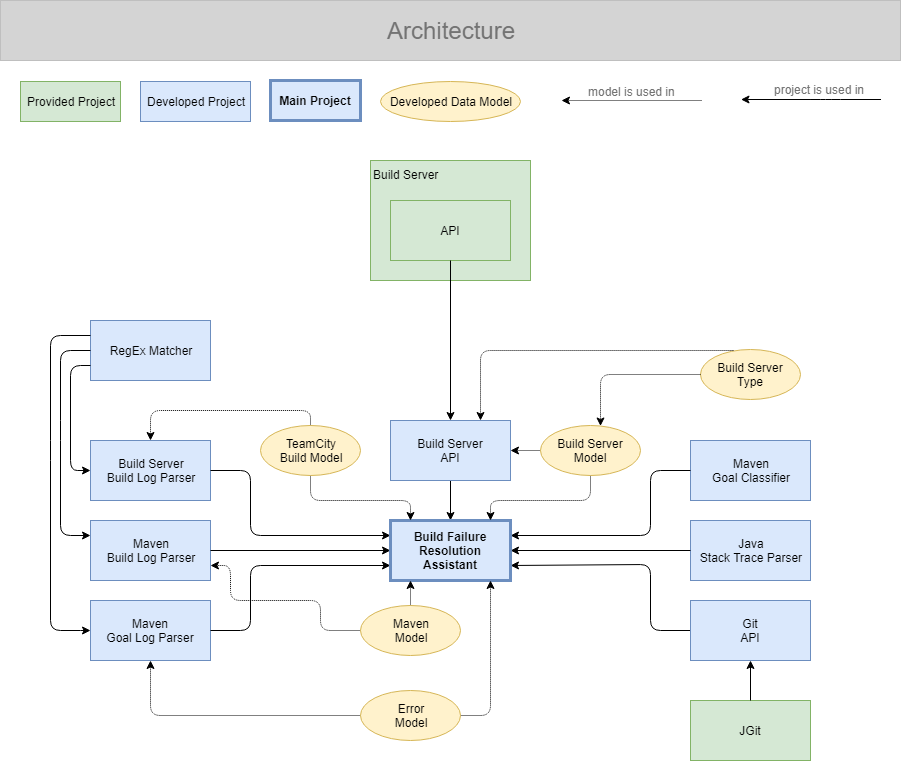
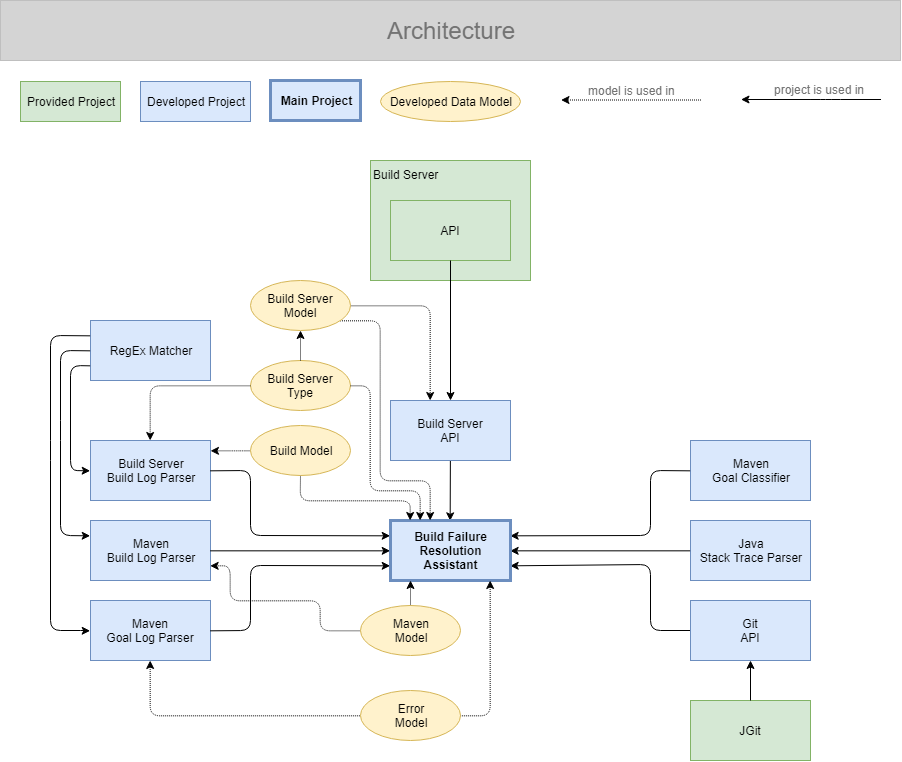
Move teamcity-build-model to new module build-model

diff --git a/build-failure-resolution-assistant/src/main/java/ch/scheitlin/alex/build/Assistant.java b/build-failure-resolution-assistant/src/main/java/ch/scheitlin/alex/build/Assistant.java
@@ -1,8 +1,6 @@
 package ch.scheitlin.alex.build;
 
-import ch.scheitlin.alex.build.model.BuildServerBuild;
-import ch.scheitlin.alex.build.model.BuildServer;
-import ch.scheitlin.alex.build.model.BuildServerType;
+import ch.scheitlin.alex.build.model.*;
 import ch.scheitlin.alex.build.model.Error;
 import ch.scheitlin.alex.git.api.GitApi;
 import ch.scheitlin.alex.maven.Classifier;
@@ -10,7 +8,6 @@ import ch.scheitlin.alex.maven.MavenBuildLogParser;
 import ch.scheitlin.alex.maven.MavenGoalLogParser;
 import ch.scheitlin.alex.maven.MavenBuild;
 import ch.scheitlin.alex.teamcity.api.TeamcityApi;
-import ch.scheitlin.alex.teamcity.TeamCityBuild;
 import javafx.util.Pair;
 
 import java.util.List;
@@ -25,11 +22,11 @@ public class Assistant extends AssistantWithStages {
     private BuildServerApi buildServerApi;
 
     // download
-    private BuildServerBuild build;
+    private BuildServerBuild buildServerBuild;
     private String rawTeamCityBuildLog;
 
     // process
-    private TeamCityBuild teamCityBuild;
+    private Build build;
     private String rawMavenBuildLog;
     public MavenBuild mavenBuild;
     public String failureCategory;
@@ -62,10 +59,10 @@ public class Assistant extends AssistantWithStages {
     }
 
     public boolean downloadBuildLog(BuildServerBuild build) {
-        this.build = build;
+        this.buildServerBuild = build;
 
         try {
-            this.rawTeamCityBuildLog = this.buildServerApi.downloadBuildLog(this.build.getId());
+            this.rawTeamCityBuildLog = this.buildServerApi.downloadBuildLog(this.buildServerBuild.getId());
         } catch (Exception ex) {
             //throw new Exception("Build log could not be downloaded.");
             return false;
@@ -81,17 +78,17 @@ public class Assistant extends AssistantWithStages {
 
     public boolean processBuildLog() {
         // parse build server build log
-        this.teamCityBuild = null;
+        this.build = null;
         try {
             BuildServerBuildLogParser buildLogParser = new BuildServerBuildLogParser(this.buildServerType);
-            this.teamCityBuild = buildLogParser.parseBuildLog(this.rawTeamCityBuildLog);
+            this.build = buildLogParser.parseBuildLog(this.rawTeamCityBuildLog);
         } catch (Exception ex) {
             //throw new Exception("TeamCity build log could not be parsed.");
             return false;
         }
 
         // extract maven log
-        this.rawMavenBuildLog = teamCityBuild.getMavenLog();
+        this.rawMavenBuildLog = build.getMavenLog();
         if (this.rawMavenBuildLog == null) {
             //throw new Exception("No Maven build log found.");
             return false;
@@ -148,9 +145,9 @@ public class Assistant extends AssistantWithStages {
     }
 
     public boolean startFixingBrokenBuild(String pathToLocalGitRepository) {
-        String urlToRemoteGitRepository = this.build.getRepository();
-        String commitId = this.build.getCommit();
-        String buildNumber = this.build.getNumber();
+        String urlToRemoteGitRepository = this.buildServerBuild.getRepository();
+        String commitId = this.buildServerBuild.getCommit();
+        String buildNumber = this.buildServerBuild.getNumber();
 
         // connect to git and get git origin remote url
         try {
@@ -269,11 +266,11 @@ public class Assistant extends AssistantWithStages {
         // clean variables
 
         // download
-        this.build = null;
+        this.buildServerBuild = null;
         this.rawTeamCityBuildLog = null;
 
         // process
-        this.teamCityBuild = null;
+        this.build = null;
         this.rawMavenBuildLog = null;
         this.mavenBuild = null;
         this.failureCategory = null;

diff --git a/build-server-build-log-parser/src/main/java/ch/scheitlin/alex/build/Parser.java b/build-server-build-log-parser/src/main/java/ch/scheitlin/alex/build/Parser.java
@@ -1,7 +1,7 @@
 package ch.scheitlin.alex.build;
 
+import ch.scheitlin.alex.build.model.Build;
 import ch.scheitlin.alex.build.model.BuildServerType;
-import ch.scheitlin.alex.teamcity.TeamCityBuild;
 
 public abstract class Parser {
     private BuildServerType buildServerType;
@@ -18,5 +18,5 @@ public abstract class Parser {
         return buildServerType == this.buildServerType;
     }
 
-    public abstract TeamCityBuild parseBuildLog(String log) throws Exception;
+    public abstract Build parseBuildLog(String log) throws Exception;
 }

diff --git a/build-server-build-log-parser/src/main/java/ch/scheitlin/alex/build/BuildServerBuildLogParser.java b/build-server-build-log-parser/src/main/java/ch/scheitlin/alex/build/BuildServerBuildLogParser.java
@@ -1,5 +1,6 @@
 package ch.scheitlin.alex.build;
 
+import ch.scheitlin.alex.build.model.Build;
 import ch.scheitlin.alex.build.model.BuildServerType;
 import ch.scheitlin.alex.teamcity.TeamCityBuild;
 import ch.scheitlin.alex.teamcity.TeamCityBuildLogParser;
@@ -26,7 +27,7 @@ public class BuildServerBuildLogParser {
         }
     }
 
-    public TeamCityBuild parseBuildLog(String log) throws Exception {
+    public Build parseBuildLog(String log) throws Exception {
         return this.parser.parseBuildLog(log);
     }
 }

diff --git a/build-model/src/main/java/ch/scheitlin/alex/teamcity/TeamCityBuild.java b/build-model/src/main/java/ch/scheitlin/alex/teamcity/TeamCityBuild.java
@@ -1,5 +1,7 @@
 package ch.scheitlin.alex.teamcity;
 
+import ch.scheitlin.alex.build.model.Build;
+
 import java.util.ArrayList;
 import java.util.Date;
 import java.util.List;
@@ -7,7 +9,7 @@ import java.util.List;
 /**
  * Represents a team city build that may be derived from a team city build log.
  */
-public class TeamCityBuild {
+public class TeamCityBuild extends Build {
     /**
      * The name of the project the build belongs to.
      */

diff --git a/build-model/src/main/java/ch/scheitlin/alex/build/model/Build.java b/build-model/src/main/java/ch/scheitlin/alex/build/model/Build.java
@@ -1,0 +1,5 @@
+package ch.scheitlin.alex.build.model;
+
+public abstract class Build {
+    public abstract String getMavenLog();
+}
